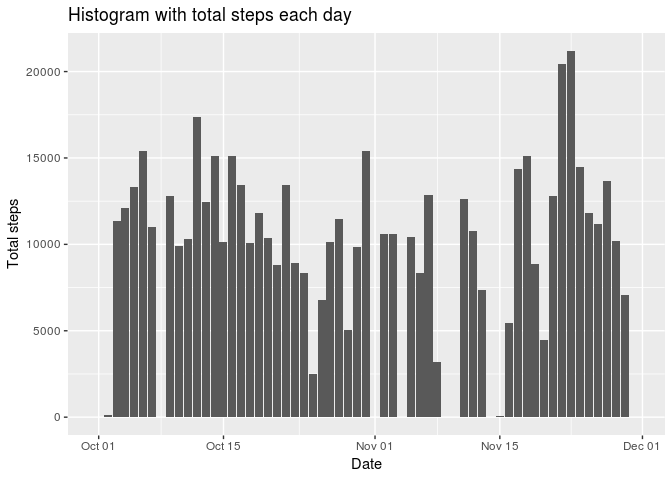
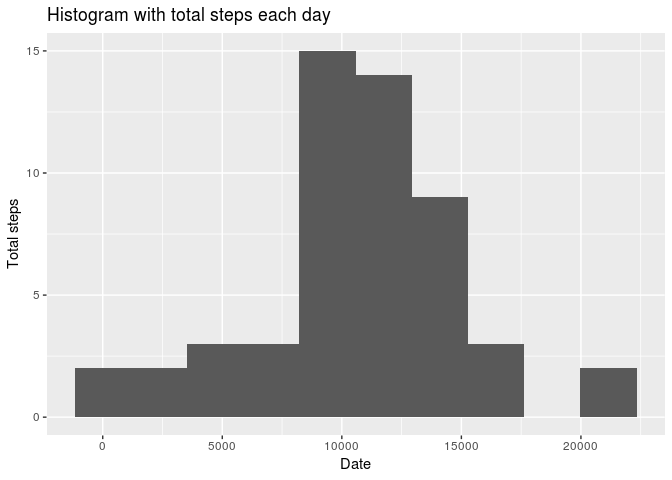
modify histogram

diff --git a/PA1_template.html b/PA1_template.html
@@ -182,25 +182,27 @@ dataset &lt;- read.csv('activity.csv', header = T) %&gt;%
 <h3>2.1 Histogram of the total number of steps taken each day</h3>
 <pre class="r"><code>p &lt;- dataset %&gt;% 
         group_by(date) %&gt;% 
-        summarise(total = sum(steps, na.rm = T)) %&gt;% 
+        summarise(total = sum(steps)) %&gt;% 
         ggplot() +
-        geom_col(aes(date, total)) +
+        geom_histogram(aes(total), bins = 10) +
         labs(title=&quot;Histogram with total steps each day&quot;, x = 'Date', y= 'Total steps')
-p %&gt;% ggsave(filename = &quot;instructions_fig/Histogram with total steps each day.png&quot;, device = 'png')
-print(p)</code></pre>
[1 lines of base64/hex data omitted]
+p %&gt;% ggsave(filename = &quot;instructions_fig/Histogram with total steps each day.png&quot;, device = 'png')</code></pre>
+<pre><code>Warning: Removed 8 rows containing non-finite values (stat_bin).</code></pre>
+<pre class="r"><code>print(p)</code></pre>
+<pre><code>Warning: Removed 8 rows containing non-finite values (stat_bin).</code></pre>
[1 lines of base64/hex data omitted]
 </div>
 <div id="mean-and-median-number-of-steps-taken-each-day" class="section level3">
 <h3>2.2 Mean and median number of steps taken each day</h3>
 <pre class="r"><code>dataset %&gt;% 
         group_by(date) %&gt;% 
-        summarise(total = sum(steps, na.rm = T)) %&gt;% 
+        summarise(total = sum(steps)) %&gt;% 
         summarise(mean = mean(total, na.rm = T), 
                   median = median(total, na.rm = T))</code></pre>
 <pre><code># A tibble: 1 x 2
-   mean median
-  &lt;dbl&gt;  &lt;int&gt;
-1 9354.  10395</code></pre>
+    mean median
+   &lt;dbl&gt;  &lt;int&gt;
+1 10766.  10765</code></pre>
 </div>
 </div>
 <div id="what-is-the-average-daily-activity-pattern" class="section level2">
@@ -262,13 +264,13 @@ dataset_imputed &lt;- dataset %&gt;%
 <h3>4.3 Histogram of the total number of steps taken each day with NA imputed</h3>
 <pre class="r"><code>p &lt;- dataset_imputed %&gt;% 
         group_by(date) %&gt;% 
-        summarise(total = sum(steps, na.rm = T)) %&gt;% 
+        summarise(total = sum(steps)) %&gt;% 
         ggplot() +
-        geom_col(aes(date, total)) +
+        geom_histogram(aes(total), bins = 10) +
         labs(title=&quot;Histogram with total steps each day after imputed for NA&quot;, x = 'Date', y= 'Total steps') 
 p %&gt;% ggsave(filename = &quot;instructions_fig/Histogram with total steps each day after imputed for NA.png&quot;, device = 'png')
 print(p)</code></pre>
[2 lines of base64/hex data omitted]
 </div>
 <div id="mean-and-median-total-number-of-steps-taken-per-day" class="section level3">
 <h3>4.4 Mean and median total number of steps taken per day</h3>

diff --git a/PA1_template.md b/PA1_template.md
@@ -63,12 +63,23 @@ For this part of the assignment, you can ignore the missing values in the datase
 ```r
 p <- dataset %>% 
         group_by(date) %>% 
-        summarise(total = sum(steps, na.rm = T)) %>% 
+        summarise(total = sum(steps)) %>% 
         ggplot() +
-        geom_col(aes(date, total)) +
+        geom_histogram(aes(total), bins = 10) +
         labs(title="Histogram with total steps each day", x = 'Date', y= 'Total steps')
 p %>% ggsave(filename = "instructions_fig/Histogram with total steps each day.png", device = 'png')
+```
+
+```
+Warning: Removed 8 rows containing non-finite values (stat_bin).
+```
+
+```r
 print(p)
+```
+
+```
+Warning: Removed 8 rows containing non-finite values (stat_bin).
 ```
 
 ![](PA1_template_files/figure-html/unnamed-chunk-2-1.png)<!-- -->
@@ -78,16 +89,16 @@ print(p)
 ```r
 dataset %>% 
         group_by(date) %>% 
-        summarise(total = sum(steps, na.rm = T)) %>% 
+        summarise(total = sum(steps)) %>% 
         summarise(mean = mean(total, na.rm = T), 
                   median = median(total, na.rm = T))
 ```
 
 ```
 # A tibble: 1 x 2
-   mean median
-  <dbl>  <int>
-1 9354.  10395
+    mean median
+   <dbl>  <int>
+1 10766.  10765
 ```
 
 ## 3. What is the average daily activity pattern?  
@@ -161,9 +172,9 @@ dataset_imputed <- dataset %>%
 ```r
 p <- dataset_imputed %>% 
         group_by(date) %>% 
-        summarise(total = sum(steps, na.rm = T)) %>% 
+        summarise(total = sum(steps)) %>% 
         ggplot() +
-        geom_col(aes(date, total)) +
+        geom_histogram(aes(total), bins = 10) +
         labs(title="Histogram with total steps each day after imputed for NA", x = 'Date', y= 'Total steps') 
 p %>% ggsave(filename = "instructions_fig/Histogram with total steps each day after imputed for NA.png", device = 'png')
 print(p)
